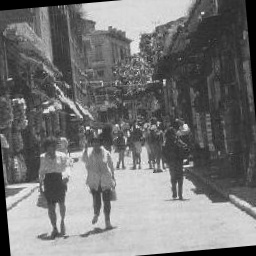
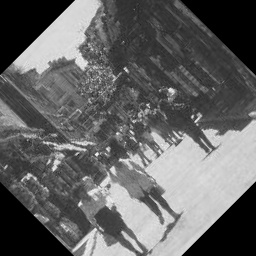
Transformaciones añadidas

diff --git a/Main.py b/Main.py
@@ -5,6 +5,7 @@ import DE
 from Fitness import Flanned_Matcher
 import Filters as ft
 import time
+import Transformations as tr
 
 def detectar_puntos_de_interes(magnitud, umbral):
     # Crear una máscara booleana donde los elementos mayores que el umbral son True
@@ -28,7 +29,7 @@ def evaluation(img, filter):
         return 0
     return eval(filter)
 
-def repetibilidad(population, img1, img2, umbral_deteccion, wr, keypoints_number):
+def repetibilidad(population, img1, img2, umbral_deteccion, wr, low_keypoints_number, up_keypoints_number, transformation, transformation_value):
     # Proceso de mapeo
     filter_MP = [MP.generate(population[i], wr) for i in range(len(population))]
 
@@ -47,12 +48,12 @@ def repetibilidad(population, img1, img2, umbral_deteccion, wr, keypoints_number
     puntos_de_interes_2 = [detectar_puntos_de_interes(filtro2_normalizada[i], umbral_deteccion) for i in
                            range(len(filtro2_normalizada))]
 
-    repeatability, images, rotated_images = zip(*[Flanned_Matcher(img1.copy(), img2.copy(), puntos_de_interes_1[i], puntos_de_interes_2[i], keypoints_number) for i in range(len(filter_MP))])
+    repeatability, images, rotated_images = zip(*[Flanned_Matcher(img1.copy(), img2.copy(), puntos_de_interes_1[i], puntos_de_interes_2[i], low_keypoints_number, up_keypoints_number, transformation, transformation_value) for i in range(len(filter_MP))])
 
     return repeatability, filter_MP, images, rotated_images
 
 # Proceso principal de detección de puntos de interés
-def deteccion_de_puntos_de_interes(img1, img2, umbral_deteccion, population_size, genotype_length, low_lim, up_lim, mutation_rate, crossover_rate, generations, termination_criteria, wr, keypoints_number, no):
+def deteccion_de_puntos_de_interes(img1, img2, umbral_deteccion, population_size, genotype_length, low_lim, up_lim, mutation_rate, crossover_rate, generations, termination_criteria, wr, low_keypoints_number, up_keypoints_number, no, transformation, transformation_value):
     inicio = time.time()
     #  Condicion en caso de que la imagen no se halla encontrado
     if img1 is None or img2 is None:
@@ -72,7 +73,7 @@ def deteccion_de_puntos_de_interes(img1, img2, umbral_deteccion, population_size
 
     # Se hace un ciclo con el rango de las generaciones establecidas
     for generation in range(generations):
-        repeatability_population, filter_M, images, rotated_images = repetibilidad(population, img1.copy(), img2.copy(), umbral_deteccion, wr, keypoints_number)
+        repeatability_population, filter_M, images, rotated_images = repetibilidad(population, img1.copy(), img2.copy(), umbral_deteccion, wr, low_keypoints_number, up_keypoints_number, transformation, transformation_value)
         best_current_fitness = max(repeatability_population)
         best_current_genotype = filter_M[repeatability_population.index(best_current_fitness)]
         best_current_image = images[repeatability_population.index(best_current_fitness)]
@@ -92,7 +93,7 @@ def deteccion_de_puntos_de_interes(img1, img2, umbral_deteccion, population_size
 
         mutation = individual.Mutation(population)
         crossover = individual.Crossover(population, mutation)
-        repeatability_crossover, _, _, _ = repetibilidad(crossover, img1.copy(), img2.copy(), umbral_deteccion, wr, keypoints_number)
+        repeatability_crossover, _, _, _ = repetibilidad(crossover, img1.copy(), img2.copy(), umbral_deteccion, wr, low_keypoints_number, up_keypoints_number, transformation, transformation_value)
         individual.Selection(population, crossover, repeatability_population, repeatability_crossover)
 
         # Impresión de pantalla con el mejor fitness cada 100 generaciones
@@ -125,18 +126,21 @@ for i in range(1, 6):
     if __name__ == '__main__':
         # Parámetros
         IMG1 = cv2.imread(f'img/Imagen{i}.jpg')
-        IMG2 = cv2.imread(f'img/Rotation{i}.jpg')
+        IMG2 = cv2.imread(f'img/Rotation{i}.JPG')
         UMBRAL = 0.95
         POPULATION_SIZE = 20
         GENOTYPE_LENGTH = 50
-        LOW_LIM = 1
-        UP_LIM = 255
+        LOW_LIM_GEN = 1
+        UP_LIM_GEN = 255
         F = 0.5  # Xm = Xi + f (x2 - x3)
         CROSSOVER_RATE = 0.7
         GENERATIONS = 100
         TERMINATION_CRITERIA = 95.0
         WR = 3
-        KEYPOINTS_NUMBER = 5000
+        LOW_LIM_KN = 10  # KN -> Keypoints Number
+        UP_LIM_KN = 3000
         no = i
+        TRANSFORMATION = tr.rotation
+        TRANSFORMATION_VALUE = 45
 
-        deteccion_de_puntos_de_interes(IMG1, IMG2, UMBRAL, POPULATION_SIZE, GENOTYPE_LENGTH, LOW_LIM, UP_LIM, F, CROSSOVER_RATE, GENERATIONS, TERMINATION_CRITERIA, WR, KEYPOINTS_NUMBER, no)
+        deteccion_de_puntos_de_interes(IMG1, IMG2, UMBRAL, POPULATION_SIZE, GENOTYPE_LENGTH, LOW_LIM_GEN, UP_LIM_GEN, F, CROSSOVER_RATE, GENERATIONS, TERMINATION_CRITERIA, WR, LOW_LIM_KN, UP_LIM_KN, no, TRANSFORMATION, TRANSFORMATION_VALUE)

diff --git a/Transformations.py b/Transformations.py
@@ -1,0 +1,78 @@
+import cv2
+import numpy as np
+
+def translate(image, pixel_number):
+    rows, cols, _ = image.shape
+    image = cv2.cvtColor(image, cv2.COLOR_BGR2GRAY)
+    traslation = np.ones((rows, cols))
+    traslation[pixel_number:rows, pixel_number:cols] = image[:rows - pixel_number, :cols - pixel_number]
+    traslation = np.uint8(traslation)
+    return traslation
+def scale(image, scale_value):
+    # Obtener las dimensiones originales de la imagen
+    original_height, original_width = image.shape[:2]
+
+    # Definir las nuevas dimensiones deseadas (por ejemplo, reducir el tamaño)
+    scale_percent = scale_value  # Escalar al 50%
+    new_width = int(original_width * scale_percent)
+    new_height = int(original_height * scale_percent)
+
+    # Redimensionar la imagen manteniendo la proporción
+    resized_image = cv2.resize(image, (new_width, new_height), interpolation=cv2.INTER_AREA)
+
+    # Crear una nueva imagen (lienzo) con las dimensiones originales y fondo negro
+    output_image = np.zeros((original_height, original_width, 3), dtype=np.uint8)
+
+    # Calcular las coordenadas de la esquina superior izquierda para centrar la imagen redimensionada
+    x_offset = (original_width - new_width) // 2
+    y_offset = (original_height - new_height) // 2
+
+    # Colocar la imagen redimensionada en el centro del lienzo negro
+    output_image[y_offset:y_offset+new_height, x_offset:x_offset+new_width] = resized_image
+    return output_image
+def rotation(image, degree):
+    # Obtener las dimensiones de la imagen
+    height, width = image.shape[:2]
+
+    # Calcular el centro de la imagen
+    center = (width // 2, height // 2)
+
+    # Obtener la matriz de rotación
+    rotation_matrix = cv2.getRotationMatrix2D(center, degree, scale=1.0)
+
+    # Conversion a float32
+    image = np.float32(image)
+
+    # Aplicar la rotacion
+    rotated_image = cv2.warpAffine(image, rotation_matrix, (width, height), borderMode=cv2.BORDER_CONSTANT, borderValue=(0, 0, 0))  # Rellenar con negro
+
+    return np.uint8(rotated_image)
+
+def noise(image, snr_db):
+    """
+    Agrega ruido gaussiano a una imagen ajustando el SNR en decibelios.
+
+    :param image: Imagen original
+    :param snr_db: Relación señal/ruido en decibelios
+    :return: Imagen con ruido gaussiano añadido
+    """
+    row, col, ch = image.shape
+    image = image.astype(np.float32)
+
+    # Calcular la potencia de la señal
+    signal_power = np.mean(image ** 2)
+
+    # Calcular la potencia de ruido deseada en base al SNR
+    snr_linear = 10 ** (snr_db / 10.0)
+    noise_power = signal_power / snr_linear
+
+    # Calcular el ruido gaussiano
+    noise = np.random.normal(0, np.sqrt(noise_power), (row, col, ch))
+
+    # Añadir el ruido a la imagen
+    noisy_image = image + noise
+
+    # Asegurar que los valores están en el rango adecuado y convertir de nuevo a uint8
+    noisy_image = np.clip(noisy_image, 0, 255).astype(np.uint8)
+
+    return noisy_image

diff --git a/tool/Scale.py b/tool/Scale.py
@@ -1,28 +1,28 @@
 import cv2
 import numpy as np
 
-# Cargar la imagen original
-image = cv2.imread('../img/Imagen5.jpg')
+def scale(image, scale_value):
+    # Obtener las dimensiones originales de la imagen
+    original_height, original_width = image.shape[:2]
 
-# Obtener las dimensiones originales de la imagen
-original_height, original_width = image.shape[:2]
+    # Definir las nuevas dimensiones deseadas (por ejemplo, reducir el tamaño)
+    scale_percent = scale_value  # Escalar al 50%
+    new_width = int(original_width * scale_percent)
+    new_height = int(original_height * scale_percent)
 
-# Definir las nuevas dimensiones deseadas (por ejemplo, reducir el tamaño)
-scale_percent = 0.85  # Escalar al 50%
-new_width = int(original_width * scale_percent)
-new_height = int(original_height * scale_percent)
+    # Redimensionar la imagen manteniendo la proporción
+    resized_image = cv2.resize(image, (new_width, new_height), interpolation=cv2.INTER_AREA)
 
-# Redimensionar la imagen manteniendo la proporción
-resized_image = cv2.resize(image, (new_width, new_height), interpolation=cv2.INTER_AREA)
+    # Crear una nueva imagen (lienzo) con las dimensiones originales y fondo negro
+    output_image = np.zeros((original_height, original_width, 3), dtype=np.uint8)
 
-# Crear una nueva imagen (lienzo) con las dimensiones originales y fondo negro
-output_image = np.zeros((original_height, original_width, 3), dtype=np.uint8)
+    # Calcular las coordenadas de la esquina superior izquierda para centrar la imagen redimensionada
+    x_offset = (original_width - new_width) // 2
+    y_offset = (original_height - new_height) // 2
 
-# Calcular las coordenadas de la esquina superior izquierda para centrar la imagen redimensionada
-x_offset = (original_width - new_width) // 2
-y_offset = (original_height - new_height) // 2
+    # Colocar la imagen redimensionada en el centro del lienzo negro
+    output_image[y_offset:y_offset+new_height, x_offset:x_offset+new_width] = resized_image
+    return output_image
 
-# Colocar la imagen redimensionada en el centro del lienzo negro
-output_image[y_offset:y_offset+new_height, x_offset:x_offset+new_width] = resized_image
-
-cv2.imwrite('../img/Scale5.jpg', output_image)
+scale = scale(cv2.imread('../img/Imagen1.jpg'), 0.8)
+cv2.imwrite('Scale.jpg', scale)

diff --git a/Fitness.py b/Fitness.py
@@ -4,9 +4,10 @@ import math
 import numpy as np
 
 # Función que retorna la imagen con las coincidencias y la tasa de repetibilidad
-def Flanned_Matcher(image, rotated_image, keypoints, rotated_keypoints, keypoints_number):
-    if len(rotated_keypoints) > keypoints_number or len(keypoints) > keypoints_number or len(keypoints) == 0 or len(rotated_keypoints) == 0 or type(image) is int or type(rotated_image) is int:
+def Flanned_Matcher(image, rotated_image, keypoints, rotated_keypoints, low_keypoints_number, up_keypoints_number, transformation, transformation_value):
+    if len(rotated_keypoints) > up_keypoints_number or len(keypoints) > up_keypoints_number or len(rotated_keypoints) < low_keypoints_number or len(keypoints) < low_keypoints_number or len(keypoints) == 0 or len(rotated_keypoints) == 0 or type(image) is int or type(rotated_image) is int:
         return 0, 0, 0
+    keypoints = transformation(keypoints, transformation_value)
     distances = np.linalg.norm(keypoints[:, np.newaxis] - rotated_keypoints, axis=2)
     matches = distances <= 5
     good_matches = 0
@@ -23,7 +24,7 @@ def Flanned_Matcher(image, rotated_image, keypoints, rotated_keypoints, keypoint
             image = cv2.circle(image, center=(y, x), radius=5, color=(0, 255, 0), thickness=-1)
         else:
             x, y = keypoints[i].ravel().astype(int)
-            image = cv2.circle(image, center=(y, x), radius=5, color=(0, 0, 255), thickness=-1)
+            image = cv2.circle(image, center=(y, x), radius=5, color=(0, 0, 255), thickness=1)
 
     for i, match in enumerate(matches.transpose()):
         if True in match:
@@ -31,7 +32,7 @@ def Flanned_Matcher(image, rotated_image, keypoints, rotated_keypoints, keypoint
             rotated_image = cv2.circle(rotated_image, center=(y, x), radius=5, color=(0, 255, 0), thickness=-1)
         else:
             x, y = rotated_keypoints[i].ravel().astype(int)
-            rotated_image = cv2.circle(rotated_image, center=(y, x), radius=5, color=(0, 0, 255), thickness=-1)
+            rotated_image = cv2.circle(rotated_image, center=(y, x), radius=5, color=(0, 0, 255), thickness=1)
 
     # Calcular tasa de repetibilidad
     if good_matches == 0:

diff --git a/tool/Rotacion.py b/tool/Rotacion.py
@@ -1,22 +1,22 @@
 import cv2
 
-image = cv2.imread('../img/Imagen5.jpg')
+def rotation(image, degree):
+    # Ángulo de rotación en grados
+    angle_degrees = degree
 
-# Ángulo de rotación en grados
-angle_degrees = 5
+    # Obtener las dimensiones de la imagen
+    height, width = image.shape[:2]
 
-# Obtener las dimensiones de la imagen
-height, width = image.shape[:2]
+    # Calcular el centro de la imagen
+    center = (width // 2, height // 2)
 
-# Calcular el centro de la imagen
-center = (width // 2, height // 2)
+    # Obtener la matriz de rotación
+    rotation_matrix = cv2.getRotationMatrix2D(center, angle_degrees, scale=1.0)
 
-# Obtener la matriz de rotación
-rotation_matrix = cv2.getRotationMatrix2D(center, angle_degrees, scale=1.0)
+    # Aplicar la rotacion
+    rotated_image = cv2.warpAffine(image, rotation_matrix, (width, height), borderMode=cv2.BORDER_CONSTANT, borderValue=(0, 0, 0))  # Rellenar con negro
 
-# Aplicar la rotación
-border_color = (0, 0, 0)
-rotated_image = cv2.warpAffine(image, rotation_matrix, (width, height), borderMode=cv2.BORDER_CONSTANT, borderValue=border_color)  # Rellenar con blanco
+    return rotated_image
 
-# Guardar imagen rotada
+rotated_image = rotation(cv2.imread('../img/Imagen5.jpg'), degree=45)
 cv2.imwrite('../img/Rotation5.JPG', rotated_image)

diff --git a/tool/Translations.py b/tool/Translations.py
@@ -1,9 +1,13 @@
 import cv2
 import numpy as np
 
-A = cv2.imread('../img/Imagen5.jpg')
-A = cv2.cvtColor(A, cv2.COLOR_BGR2GRAY)
-B = np.ones((256, 256))
-B[19:255, 19:255] = A[:236, :236]
-B = np.uint8(B)
-cv2.imwrite('../img/Translation5.jpg', B)
+def translate(image, pixel_number):
+    rows, cols, _ = image.shape
+    image = cv2.cvtColor(image, cv2.COLOR_BGR2GRAY)
+    traslation = np.ones((rows, cols))
+    traslation[pixel_number:rows, pixel_number:cols] = image[:rows - pixel_number, :cols - pixel_number]
+    traslation = np.uint8(traslation)
+    return traslation
+
+translation = translate(cv2.imread('../img/Imagen1.jpg'), 50)
+cv2.imwrite('Translation.jpg', translation)

diff --git a/tool/Ruido.py b/tool/Ruido.py
@@ -30,10 +30,5 @@ def add_gaussian_noise(image, snr_db):
 
     return noisy_image
 
-img = cv2.imread('../img/Imagen5.jpg')
-img = cv2.resize(img, (500, 500))
-noisy_img = add_gaussian_noise(img, 8)
-cv2.imwrite('../img/Noisy5.jpg', noisy_img)
-cv2.imshow('img/Noisy.jpg', noisy_img)
-cv2.waitKey(0)
-cv2.destroyAllWindows()
+noisy_img = add_gaussian_noise(cv2.imread('../img/Imagen.jpg'), 8)
+cv2.imwrite('Noisy.jpg', noisy_img)

diff --git a/tool/Experiments.py b/tool/Experiments.py
@@ -1,2 +1,6 @@
-for i in range(2, 6):
-    print(i)
+import Transformations as tr
+import cv2
+
+ruido = tr.noise
+noisy_img = ruido(cv2.imread('../img/Imagen1.jpg'), 8)
+cv2.imwrite('Noisy.jpg', noisy_img)
